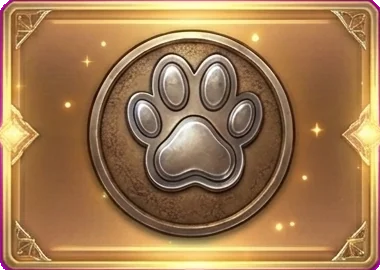
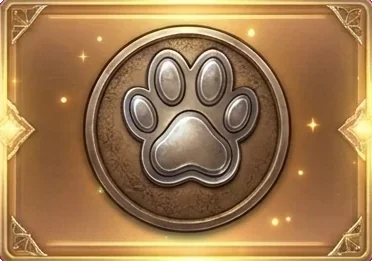
VIP shop: new window background, clean even menu plates, stones moved to Consumable
- Window background from vipshopwindow2.png (keyed, 1920x1080)
- Menu plates trimmed and cleaned of the pink edge; spaced evenly down the column
- Stones, materials and copper move from the Diamond tab to Consumable
- Diamond tab is empty for now (top-up and buy diamond to come)

Claude-Session: https://claude.ai/code/session_01W4v7cyzS6Fr8aMVaGgywWE

diff --git a/index.html b/index.html
@@ -206,7 +206,7 @@
 #campaign-panel .campaign-btn .cb-label, .art-dark .expo-panel .campaign-btn .cb-label { position: absolute; inset: 0; display: flex; align-items: center; justify-content: center; font-size: 15px; font-weight: 800; color: #ffffff !important; text-shadow: 0 1px 2px #000; pointer-events: none; white-space: nowrap; }
 .campaign-btn:hover .cb-normal { filter: brightness(1.12); }
         /* VIP shop layout: menu (left), item list (centre), item detail (right), buy */
-        #vip-menu .vip-menu-btn { position: relative; width: 165px; height: 117px; padding: 0; border: 0; background: none; cursor: pointer; color: #e9edf5; font: 800 22px 'Roboto', 'Noto Sans Thai', sans-serif; }
+        #vip-menu .vip-menu-btn { position: relative; width: 150px; height: 105px; padding: 0; border: 0; background: none; cursor: pointer; color: #e9edf5; font: 800 22px 'Roboto', 'Noto Sans Thai', sans-serif; }
         #vip-menu .vip-menu-btn img { position: absolute; left: 0; top: 0; width: 100%; height: 100%; display: block; }
         #vip-menu .vip-menu-btn .vm-press { display: none; }
         #vip-menu .vip-menu-btn:active .vm-normal, #vip-menu .vip-menu-btn.sel .vm-normal { display: none; }
@@ -1499,8 +1499,8 @@
                         <img class="ret-normal" src="assets/cha/button/returnbuttonsmall_q85.webp" alt="">
                         <img class="ret-press" src="assets/cha/button/returnbuttonpresssmall_q85.webp" alt="">
                     </div>
-                    <img class="art-frame" src="assets/diamond/vip/vip_window_q85.webp" alt="" style="left:0; top:0; width:1920px; height:1080px;">
-                    <div id="vip-menu" style="position:absolute; z-index:3; left:149px; top:255px; width:214px; height:701px; box-sizing:border-box; display:flex; flex-direction:column; justify-content:space-between; align-items:center;"></div>
+                    <img class="art-frame" src="assets/diamond/vip/vip_window2_q85.webp" alt="" style="left:0; top:0; width:1920px; height:1080px;">
+                    <div id="vip-menu" style="position:absolute; z-index:3; left:149px; top:255px; width:214px; height:701px; box-sizing:border-box; display:flex; flex-direction:column; justify-content:space-evenly; align-items:center;"></div>
                     <div id="vip-grid" style="position:absolute; z-index:3; left:392px; top:255px; width:918px; height:706px; box-sizing:border-box; padding:12px 14px; overflow-y:auto; display:grid; grid-template-columns:repeat(auto-fill,128px); gap:16px 14px; justify-content:start; align-content:start;"></div>
                     <div id="vip-detail" style="position:absolute; z-index:3; left:1353px; top:303px; width:385px; height:588px; box-sizing:border-box; padding:24px 26px; display:flex; flex-direction:column; align-items:center; gap:14px; color:#e9edf5; font-family:'Roboto','Noto Sans Thai',sans-serif; text-align:center; overflow-y:auto;"></div>
                     <button id="vip-buy" class="vip-buy" onclick="vipBuySelected()" style="position:absolute; z-index:3; left:1357px; top:891px; width:377px; height:97px; padding:0; border:0; background:none; cursor:pointer;"><img class="vb-normal" src="assets/diamond/vip/ui/buy_q85.webp" alt="Buy" style="width:100%; height:100%; display:block;"><img class="vb-press" src="assets/diamond/vip/ui/buy_press_q85.webp" alt="" style="width:100%; height:100%; display:none;"></button>
@@ -2006,7 +2006,7 @@
     <script src="js/hero-body.js?v=20261115aj"></script>
     <script src="js/combat.js?v=20261116g"></script>
     <script src="js/crit-fx.js?v=20261110e"></script>
-    <script src="js/ui.js?v=20261116zo"></script>
+    <script src="js/ui.js?v=20261116zp"></script>
     <script src="js/market.js?v=20261113c"></script>
     <script src="js/guide-intro.js?v=20261116b"></script>
     <script src="js/guide-upgrade.js?v=20261113e"></script>

diff --git a/js/ui.js b/js/ui.js
@@ -2575,10 +2575,10 @@ function buyArmoryItem(itemIndex) {
 // plate: which menu plate picture (0-5) belongs to the category (sheet order: gift, diamond, crown, armor, potion, paw)
 const VIP_CATS = [
     { key: 'all', label: 'All', plate: 0, types: null },
-    { key: 'stone', label: 'Stones & Material', plate: 1, types: ['estone', 'bs_rune', 'material', 'copper'] },
+    { key: 'stone', label: 'Diamond', plate: 1, types: [] }, // top-up and buy diamond (items to come)
     { key: 'vip', label: 'VIP & Boost', plate: 2, types: ['vip', 'boost'] },
     { key: 'box', label: 'Boxes & Bags', plate: 3, types: ['box', 'chest', 'bag'] },
-    { key: 'potion', label: 'Potions & Service', plate: 4, types: ['potion', 'resurrection', 'service', 'skill_reset'] },
+    { key: 'potion', label: 'Consumable', plate: 4, types: ['potion', 'resurrection', 'service', 'skill_reset', 'estone', 'bs_rune', 'material', 'copper'] },
     { key: 'pet', label: 'Pets', plate: 5, types: ['pet'] },
 ];
 let vipCat = 'all';
